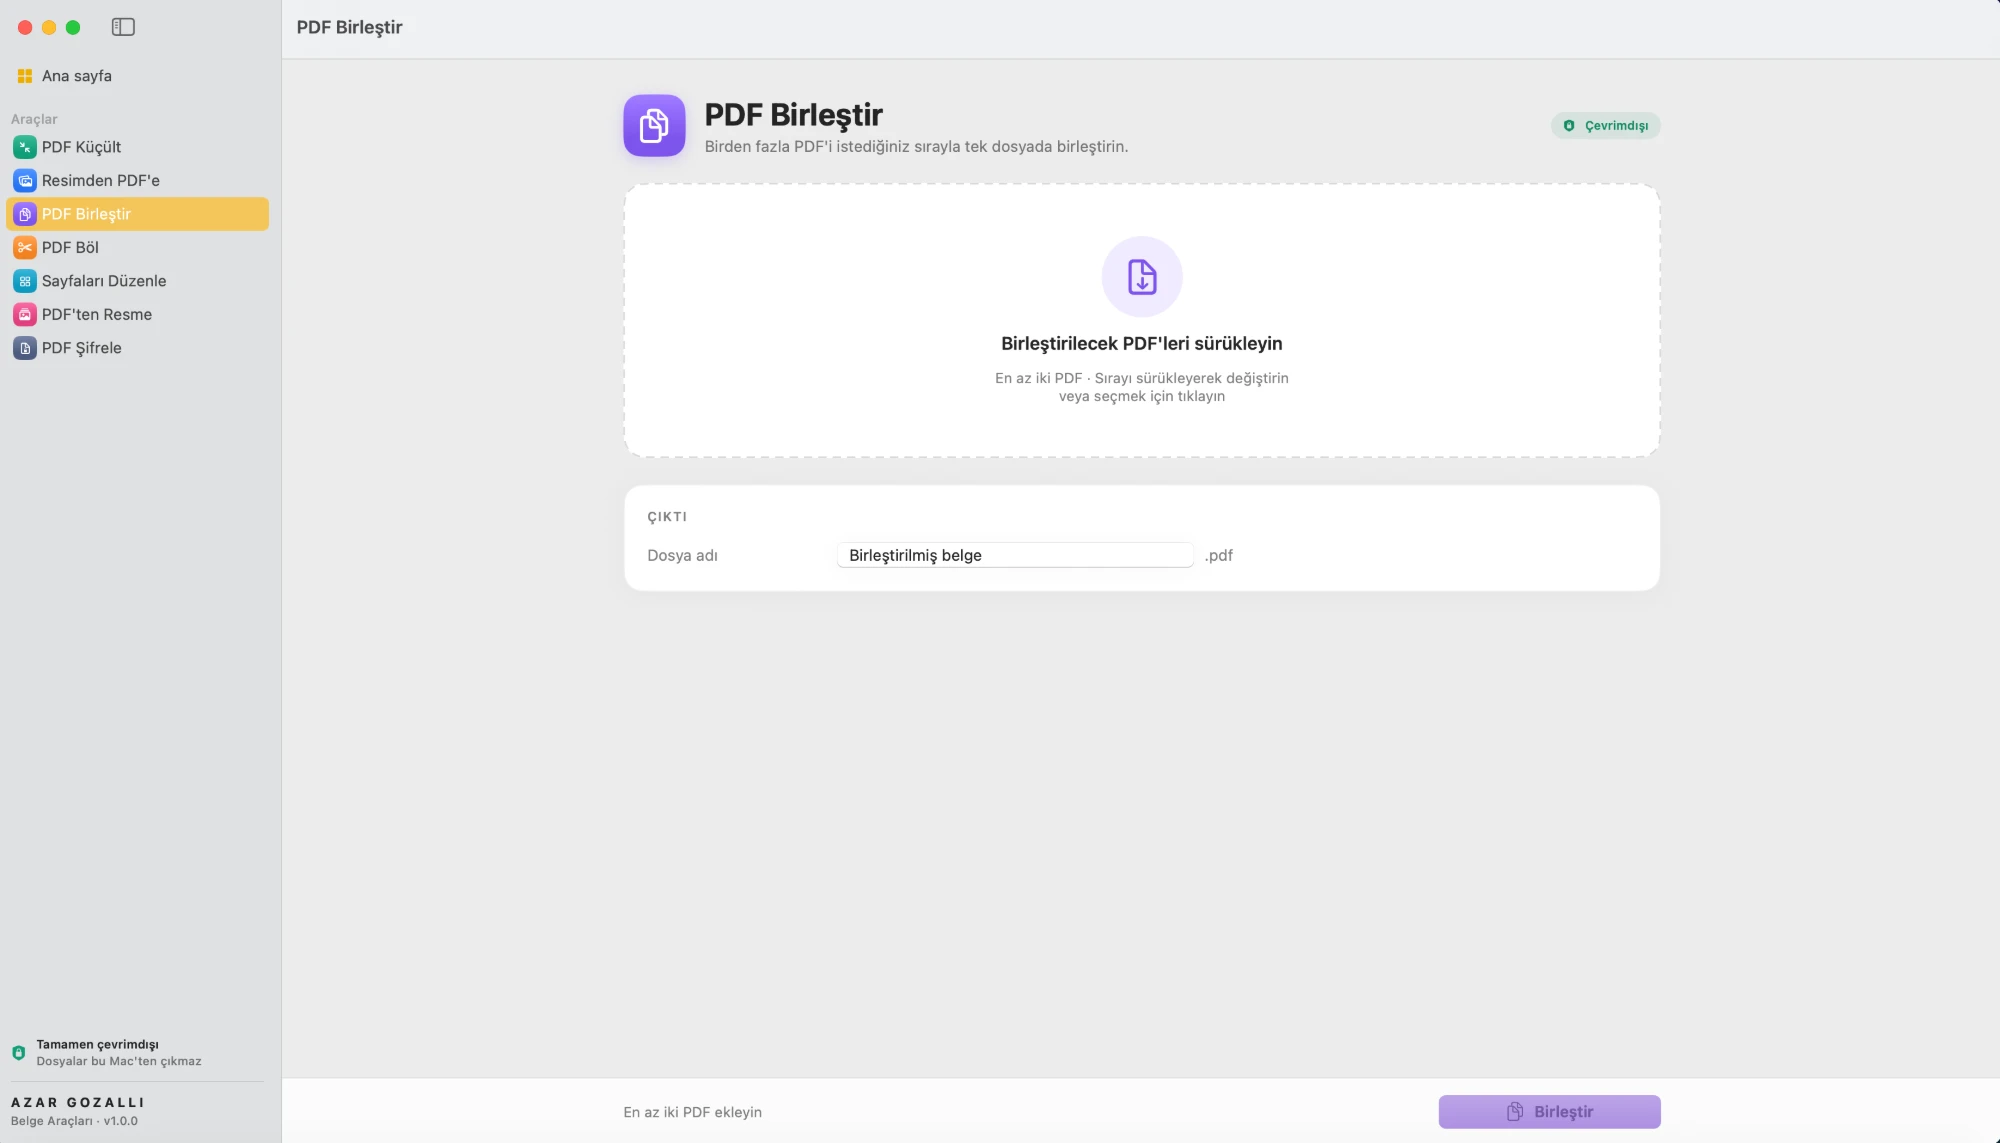
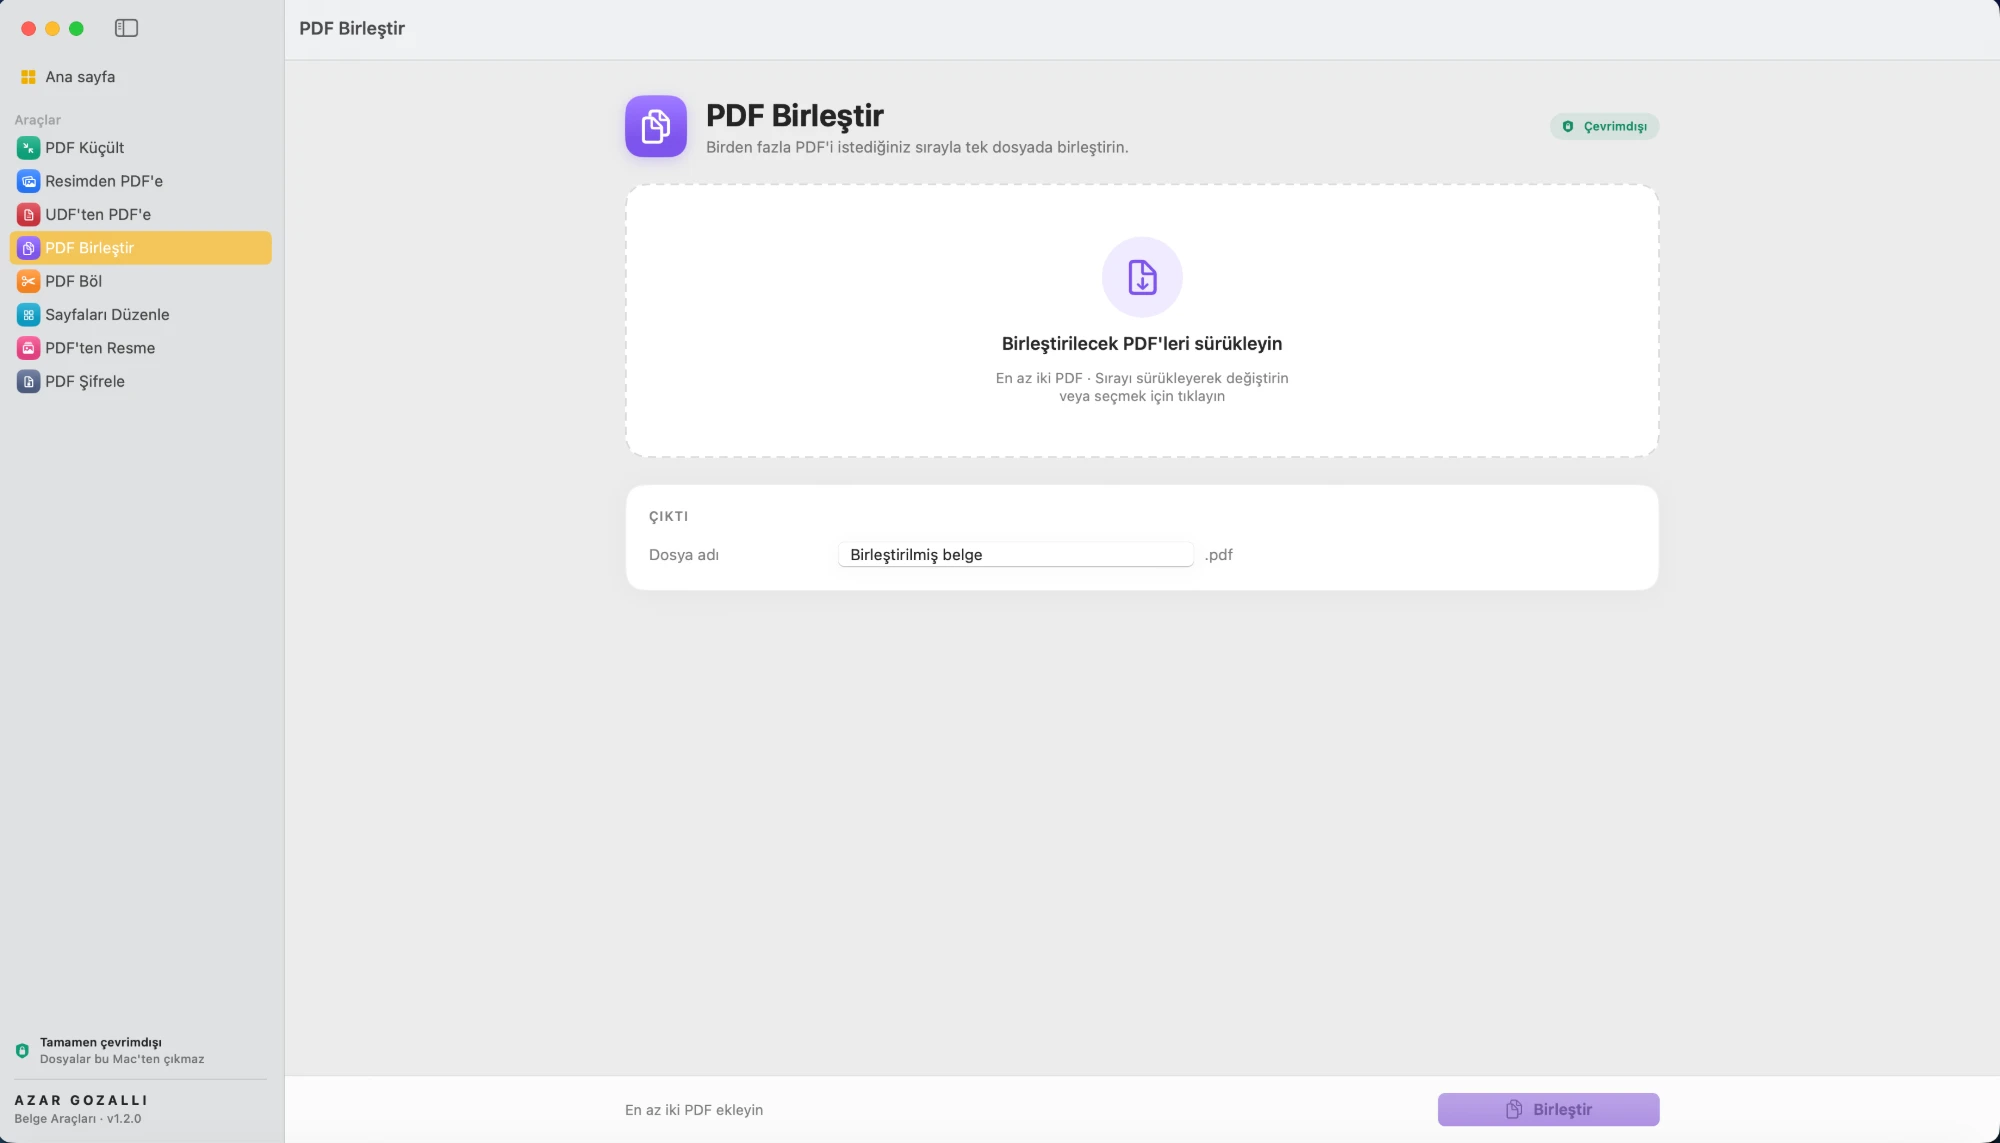
Ekran görüntülerini 1.2.0 arayüzüyle güncelle

diff --git a/README.md b/README.md
@@ -22,12 +22,12 @@
 | PDF Küçült | Resimden PDF'e |
 |---|---|
 | <img src="docs/screenshots/pdf-kucult.webp" alt="PDF Küçült"> | <img src="docs/screenshots/resimden-pdf.webp" alt="Resimden PDF'e"> |
-| **PDF Birleştir** | **PDF Böl** |
-| <img src="docs/screenshots/pdf-birlestir.webp" alt="PDF Birleştir"> | <img src="docs/screenshots/pdf-bol.webp" alt="PDF Böl"> |
-| **Sayfaları Düzenle** | **PDF'ten Resme** |
-| <img src="docs/screenshots/sayfalari-duzenle.webp" alt="Sayfaları Düzenle"> | <img src="docs/screenshots/pdften-resme.webp" alt="PDF'ten Resme"> |
-| **PDF Şifrele** | |
-| <img src="docs/screenshots/pdf-sifrele.webp" alt="PDF Şifrele"> | |
+| **UDF'ten PDF'e** | **PDF Birleştir** |
+| <img src="docs/screenshots/udften-pdf.webp" alt="UDF'ten PDF'e"> | <img src="docs/screenshots/pdf-birlestir.webp" alt="PDF Birleştir"> |
+| **PDF Böl** | **Sayfaları Düzenle** |
+| <img src="docs/screenshots/pdf-bol.webp" alt="PDF Böl"> | <img src="docs/screenshots/sayfalari-duzenle.webp" alt="Sayfaları Düzenle"> |
+| **PDF'ten Resme** | **PDF Şifrele** |
+| <img src="docs/screenshots/pdften-resme.webp" alt="PDF'ten Resme"> | <img src="docs/screenshots/pdf-sifrele.webp" alt="PDF Şifrele"> |
 
 ## Özellikler
 
